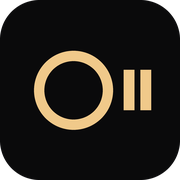
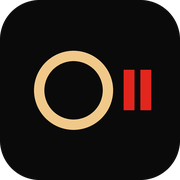
Знак OLL: полновысотные штрихи и цветная дуга по клику
Штрихи 16x129 во всю высоту кольца, надпись OLL из шапки убрана. Клик по кольцу прогоняет оборот со спектральной дугой. Также: bottom sheet фильтров на мобильном, тач-цели 44px, контраст AA (--ctl), честный диапазон цен.

Changed region(s): [[0.7778, 0.3611, 0.8611, 0.6389], [0.6667, 0.3611, 0.75, 0.6389]]

diff --git a/index.html b/index.html
@@ -65,9 +65,10 @@
 <body>
 
 <header class="head">
+  <!-- штрихи вплотную к кольцу: знак читается как OLL, отдельная надпись не нужна -->
   <a class="logo" href="#top" aria-label="OLL — дизайнерский свет Opple Lighting">
-    <svg class="logo-glyph" viewBox="0 0 182 132" aria-hidden="true"><circle cx="66.5" cy="66.5" r="58.75" fill="none" stroke="currentColor" stroke-width="15.5"/><rect x="141" y="36" width="16" height="60"/><rect x="166" y="36" width="16" height="60"/></svg>
-    <span class="logo-text"><span class="logo-word">OLL</span><span class="logo-sub">by Opple Lighting</span></span>
+    <svg class="logo-glyph" viewBox="0 0 190 133" aria-hidden="true"><circle cx="66.5" cy="66.5" r="58.75" fill="none" stroke="currentColor" stroke-width="15.5"/><circle class="ring-hue" cx="66.5" cy="66.5" r="58.75" fill="none" stroke-width="15.5"/><rect class="bar" x="147" y="2" width="16" height="129"/><rect class="bar" x="169" y="2" width="16" height="129"/></svg>
+    <span class="logo-text"><span class="logo-sub">by Opple Lighting</span></span>
   </a>
   <nav class="nav">
     <a href="#catalog">Витрина</a>
@@ -98,7 +99,18 @@
     <p class="cat-note">Все цены — за одну единицу. Не является публичной офертой.</p>
   </div>
 
-  <div class="toolbar" id="toolbar">
+  <div class="filterbar">
+    <button type="button" class="fb-open" id="openFilters" aria-expanded="false" aria-controls="toolbar">
+      Фильтры<span class="fb-n" id="fbCount" hidden></span>
+    </button>
+    <span class="fb-count" id="barCount" aria-hidden="true"></span>
+  </div>
+
+  <div class="toolbar" id="toolbar" role="group" aria-label="Фильтры и сортировка" tabindex="-1">
+    <div class="tb-head">
+      <p class="tb-title">Фильтры</p>
+      <button type="button" class="tb-x" id="closeFilters" aria-label="Закрыть фильтры">×</button>
+    </div>
     <div class="chips" id="seriesChips" role="group" aria-label="Серия"></div>
     <div class="tools">
       <label class="field-search">
@@ -116,8 +128,15 @@
         <input type="range" id="maxPrice" min="0" max="0" step="10000">
       </label>
     </div>
-    <div class="cat-meta"><span id="count" aria-live="polite"></span><button type="button" class="link-reset" id="reset">Сбросить фильтры</button></div>
+    <div class="cat-meta">
+      <span id="count" aria-live="polite"></span>
+      <span class="cm-actions">
+        <button type="button" class="link-reset" id="reset">Сбросить</button>
+        <button type="button" class="btn btn-solid tb-done" id="done">Показать</button>
+      </span>
+    </div>
   </div>
+  <div class="sheet-back" id="sheetBack" hidden></div>
 
   <div class="grid" id="grid"></div>
   <p class="empty" id="empty" hidden>Под эти фильтры нет ни одной модели. <button type="button" class="link-reset" id="reset2">Сбросить</button></p>
@@ -130,9 +149,9 @@
     <h2>Уважение к свету<br>в основе бренда</h2>
     <p>OLL — дизайнерское направление Opple Lighting. Свет здесь не инструмент освещения, а язык, конструкция и переживание: тонкие линии, ручное стекло, тёплый спектр и управление светом в пространстве.</p>
     <dl class="facts">
-      <div><dt>Серий</dt><dd>9</dd></div>
-      <div><dt>Моделей</dt><dd>64</dd></div>
-      <div><dt>Диапазон цен</dt><dd>41 000 — 1 100 000 ₽</dd></div>
+      <div><dt>Серий</dt><dd id="factSeries">9</dd></div>
+      <div><dt>Моделей</dt><dd id="factModels">64</dd></div>
+      <div><dt>Диапазон цен</dt><dd id="factRange">—</dd></div>
     </dl>
     <p class="muted" id="delivery"></p>
   </div>
@@ -198,20 +217,20 @@
 
 <footer class="foot">
   <div class="foot-l">
-    <svg class="logo-glyph foot-glyph" viewBox="0 0 182 132" aria-hidden="true"><circle cx="66.5" cy="66.5" r="58.75" fill="none" stroke="currentColor" stroke-width="15.5"/><rect x="141" y="36" width="16" height="60"/><rect x="166" y="36" width="16" height="60"/></svg>
-    <p class="foot-word">OLL <span class="muted">· by Opple Lighting</span></p>
+    <svg class="logo-glyph foot-glyph" viewBox="0 0 190 133" aria-hidden="true"><circle cx="66.5" cy="66.5" r="58.75" fill="none" stroke="currentColor" stroke-width="15.5"/><rect class="bar" x="147" y="2" width="16" height="129"/><rect class="bar" x="169" y="2" width="16" height="129"/></svg>
+    <p class="foot-word">OLL<span class="muted"> · by Opple Lighting</span></p>
     <p id="legal"></p>
   </div>
   <div class="foot-r">
-    <p>Актуальность цен: <span id="updated"></span>.</p>
+    <p>Цены из действующего прайса OLL, итог подтверждаем в счёте.</p>
     <p><a href="privacy.html">Политика обработки персональных данных</a></p>
   </div>
 </footer>
 
 <div class="modal" id="modal" hidden>
   <div class="modal-back" data-close></div>
-  <div class="modal-card" role="dialog" aria-modal="true" aria-label="Модель светильника">
-    <button class="modal-x" data-close aria-label="Закрыть">×</button>
+  <div class="modal-card" role="dialog" aria-modal="true" aria-labelledby="m-model" tabindex="-1">
+    <button class="modal-x" data-close aria-label="Закрыть карточку">×</button>
     <div class="modal-media">
       <div class="modal-stage"><img id="m-main" alt=""></div>
       <div class="modal-thumbs" id="m-thumbs"></div>

diff --git a/404.html b/404.html
@@ -24,7 +24,7 @@
 <body>
 
 <header class="head solid">
-  <a class="logo" href="/index.html" aria-label="OLL — на главную"><svg class="logo-glyph" viewBox="0 0 182 132" aria-hidden="true"><circle cx="66.5" cy="66.5" r="58.75" fill="none" stroke="currentColor" stroke-width="15.5"/><rect x="141" y="36" width="16" height="60"/><rect x="166" y="36" width="16" height="60"/></svg><span class="logo-sub">by Opple Lighting</span></a>
+  <a class="logo" href="/index.html" aria-label="OLL — на главную"><svg class="logo-glyph" viewBox="0 0 190 133" aria-hidden="true"><circle cx="66.5" cy="66.5" r="58.75" fill="none" stroke="currentColor" stroke-width="15.5"/><rect class="bar" x="147" y="2" width="16" height="129"/><rect class="bar" x="169" y="2" width="16" height="129"/></svg><span class="logo-text"><span class="logo-sub">by Opple Lighting</span></span></a>
   <nav class="nav"><a href="/index.html#catalog">Витрина</a><a href="/index.html#contact">Заявка</a></nav>
 </header>
 
@@ -41,7 +41,7 @@
 
 <footer class="foot">
   <div class="foot-l">
-    <svg class="logo-glyph foot-glyph" viewBox="0 0 182 132" aria-hidden="true"><circle cx="66.5" cy="66.5" r="58.75" fill="none" stroke="currentColor" stroke-width="15.5"/><rect x="141" y="36" width="16" height="60"/><rect x="166" y="36" width="16" height="60"/></svg>
+    <svg class="logo-glyph foot-glyph" viewBox="0 0 190 133" aria-hidden="true"><circle cx="66.5" cy="66.5" r="58.75" fill="none" stroke="currentColor" stroke-width="15.5"/><rect class="bar" x="147" y="2" width="16" height="129"/><rect class="bar" x="169" y="2" width="16" height="129"/></svg>
     <p>OLL by Opple Lighting · поставки под заказ</p>
   </div>
   <div class="foot-r">

diff --git a/privacy.html b/privacy.html
@@ -15,7 +15,7 @@
 </head>
 <body>
 <header class="head solid">
-  <a class="logo" href="index.html" aria-label="OLL — на главную"><svg class="logo-glyph" viewBox="0 0 182 132" aria-hidden="true"><circle cx="66.5" cy="66.5" r="58.75" fill="none" stroke="currentColor" stroke-width="15.5"/><rect x="141" y="36" width="16" height="60"/><rect x="166" y="36" width="16" height="60"/></svg><span class="logo-sub">by Opple Lighting</span></a>
+  <a class="logo" href="index.html" aria-label="OLL — на главную"><svg class="logo-glyph" viewBox="0 0 190 133" aria-hidden="true"><circle cx="66.5" cy="66.5" r="58.75" fill="none" stroke="currentColor" stroke-width="15.5"/><rect class="bar" x="147" y="2" width="16" height="129"/><rect class="bar" x="169" y="2" width="16" height="129"/></svg><span class="logo-text"><span class="logo-sub">by Opple Lighting</span></span></a>
   <nav class="nav"><a href="index.html#catalog">Витрина</a><a href="index.html#contact">Заявка</a></nav>
 </header>
 
